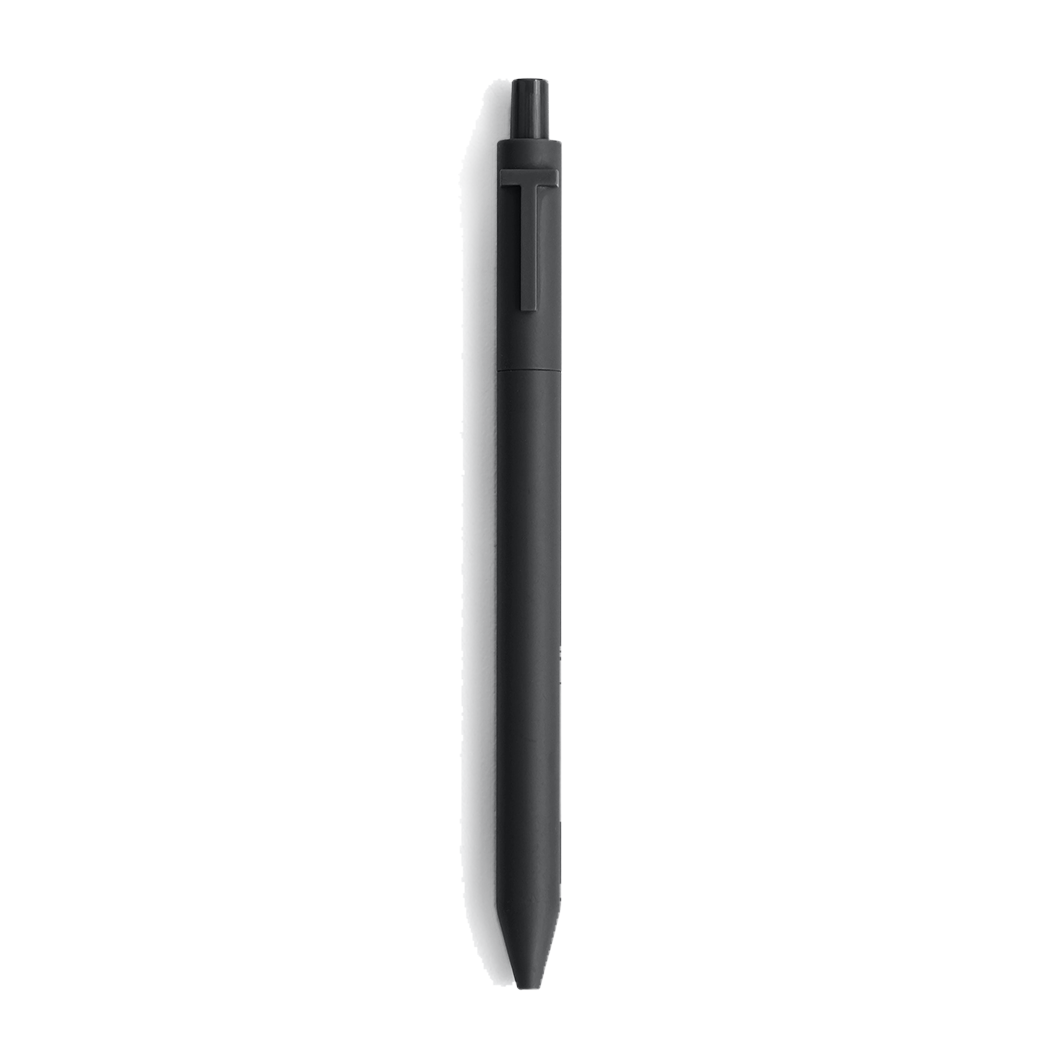
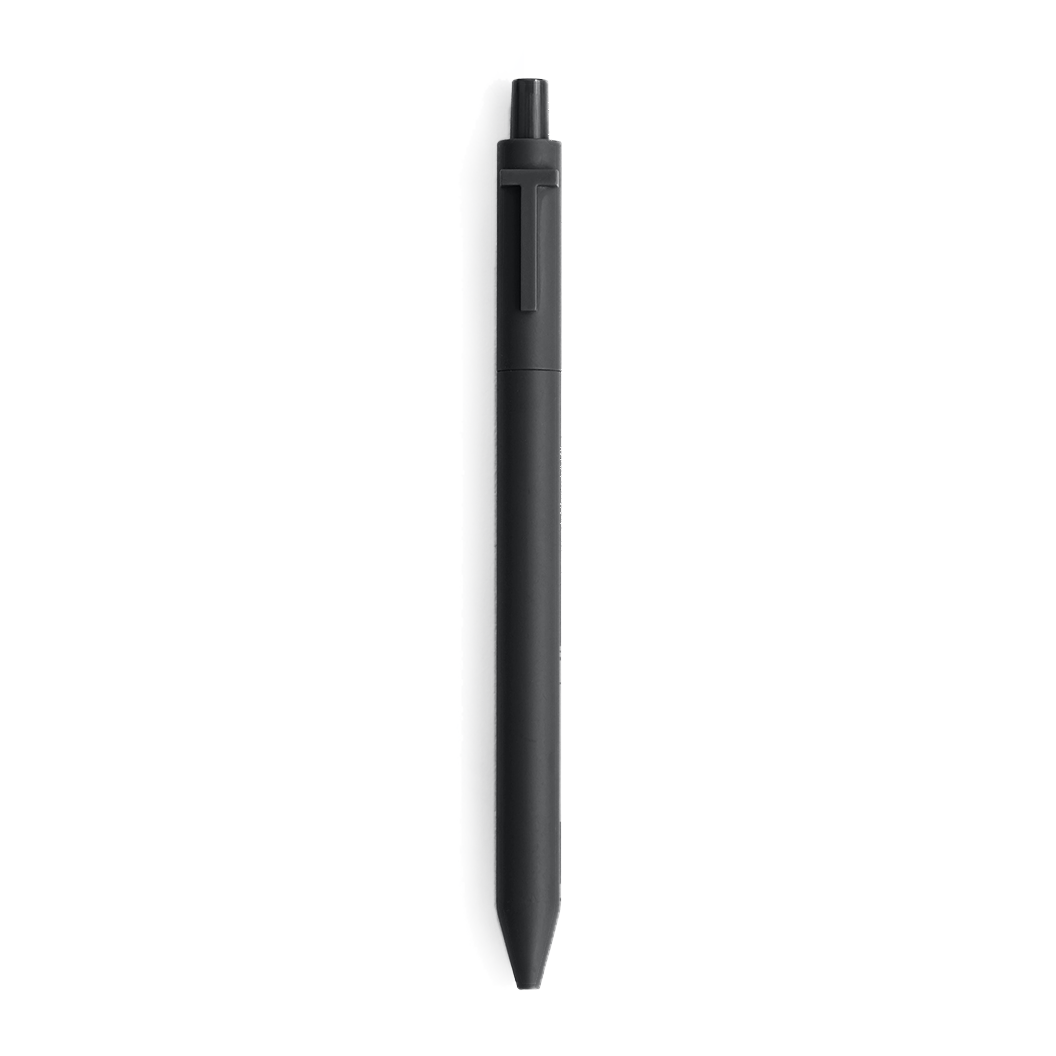
implemented carousel on hero image

Changed region(s): [[0.4375, 0.0625, 0.5, 0.9375]]

diff --git a/src/components/HeroImage/HeroImage.tsx b/src/components/HeroImage/HeroImage.tsx
@@ -2,6 +2,19 @@ import './heroImage.scss';
 import * as React from 'react';
 import { Carousel } from "react-bootstrap";
 
+type Image = {
+    src: string,
+    alt: string
+}
+
+// Images array
+const images: Array<Image> = [
+    {src: "assets/img/products/sport-watch.png", alt: "sport watch"},
+    {src: "assets/img/products/drone-image.png", alt: "drone"},
+    {src: "assets/img/products/pen-image.png", alt: "pen"},
+    {src: "assets/img/products/chair-image.png", alt: "chair"}
+];
+
 function HeroImage() {
 
     return (
@@ -13,19 +26,12 @@ function HeroImage() {
                         <p className="hero-subtitle">Inclusion, Innovation & Interdisciplinary Design</p>
                     </div>
                 </div>
-                <Carousel fade className="hero-carousel">
-                    <Carousel.Item>
-                        <img className="d-block w-100" src="assets/img/products/sport-watch.png" alt="sport watch" />
-                    </Carousel.Item>
-                    <Carousel.Item>
-                        <img className="d-block w-100" src="assets/img/products/drone-image.png" alt="drone" />
-                    </Carousel.Item>
-                    <Carousel.Item>
-                        <img className="d-block w-100" src="assets/img/products/pen-image.png" alt="pen" />
-                    </Carousel.Item>
-                    <Carousel.Item>
-                        <img className="d-block w-100" src="assets/img/products/chair-image.png" alt="chair" />
-                    </Carousel.Item>
+                <Carousel fade className="hero-carousel" controls={false} variant="dark">
+                    { images.map((image) =>
+                        <Carousel.Item key={image.alt}>
+                            <img className="d-block w-100" src={image.src} alt={image.alt} />
+                        </Carousel.Item>
+                    )}
                 </Carousel>
             </div>
         </div>

diff --git a/src/components/HeroImage/heroImage.scss b/src/components/HeroImage/heroImage.scss
@@ -1,6 +1,6 @@
 @import "src/assets/sass/variables";
 
-$hero-background-color: #f2f3f5;
+$hero-background-color: white;
 
 .hero-container {
   background: $hero-background-color;
@@ -83,13 +83,34 @@ $hero-background-color: #f2f3f5;
       top: calc(50% - 19rem);
       right: 0;
 
+      .carousel-indicators {
+        transform: rotate(90deg);
+        top: 50%;
+        right: -2rem;
+        margin: 0;
+        bottom: auto;
+        left: auto;
+      }
+
+      // Get next image
       // Next image in carousel
       .carousel-item-next{
         transition: opacity 2.5s ease-in-out;
       }
 
-      // Previous image in carousel
+      // Next image's previous image in carousel
       .carousel-item-start{
+        transition: opacity 2.5s ease-in-out;
+      }
+
+      // Get previous image
+      // Previous image in carousel
+      .carousel-item-prev {
+        transition: opacity 2.5s ease-in-out;
+      }
+
+      // Previous image's next image
+      .carousel-item-end {
         transition: opacity 2.5s ease-in-out;
       }
     }
